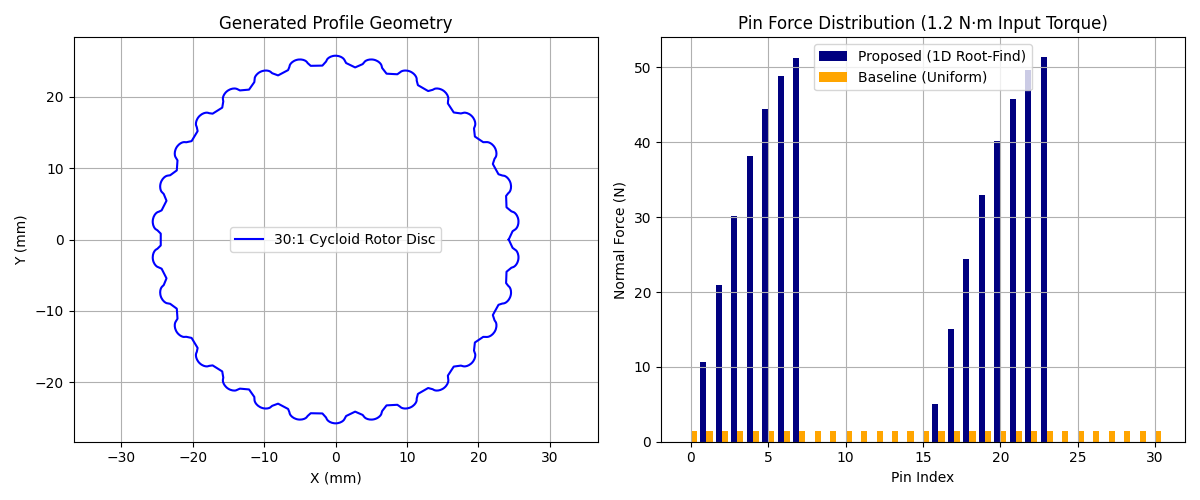
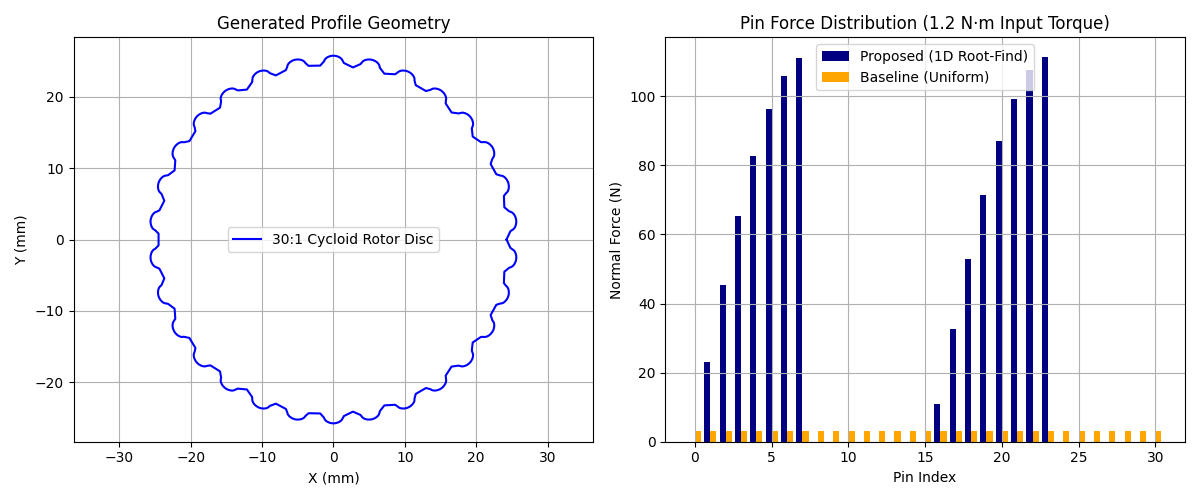
finished up README

diff --git a/run_analysis.py b/run_analysis.py
@@ -17,7 +17,7 @@ def run_full_analysis() -> None:
     pitch_r = 0.053/2  # 53 mm pitch radius
     pin_r = 0.0015  # 3 mm pin diameter
     ecc = 0.00075  # 0.75 mm eccentricity
-    torque = 1.2  # 1.2 N*m torque load
+    torque = 2.6  # 1.2 N*m torque load
     disc_thickness = 0.004  # 4 mm disc thickness
 
     # 1. Geometry Generation
